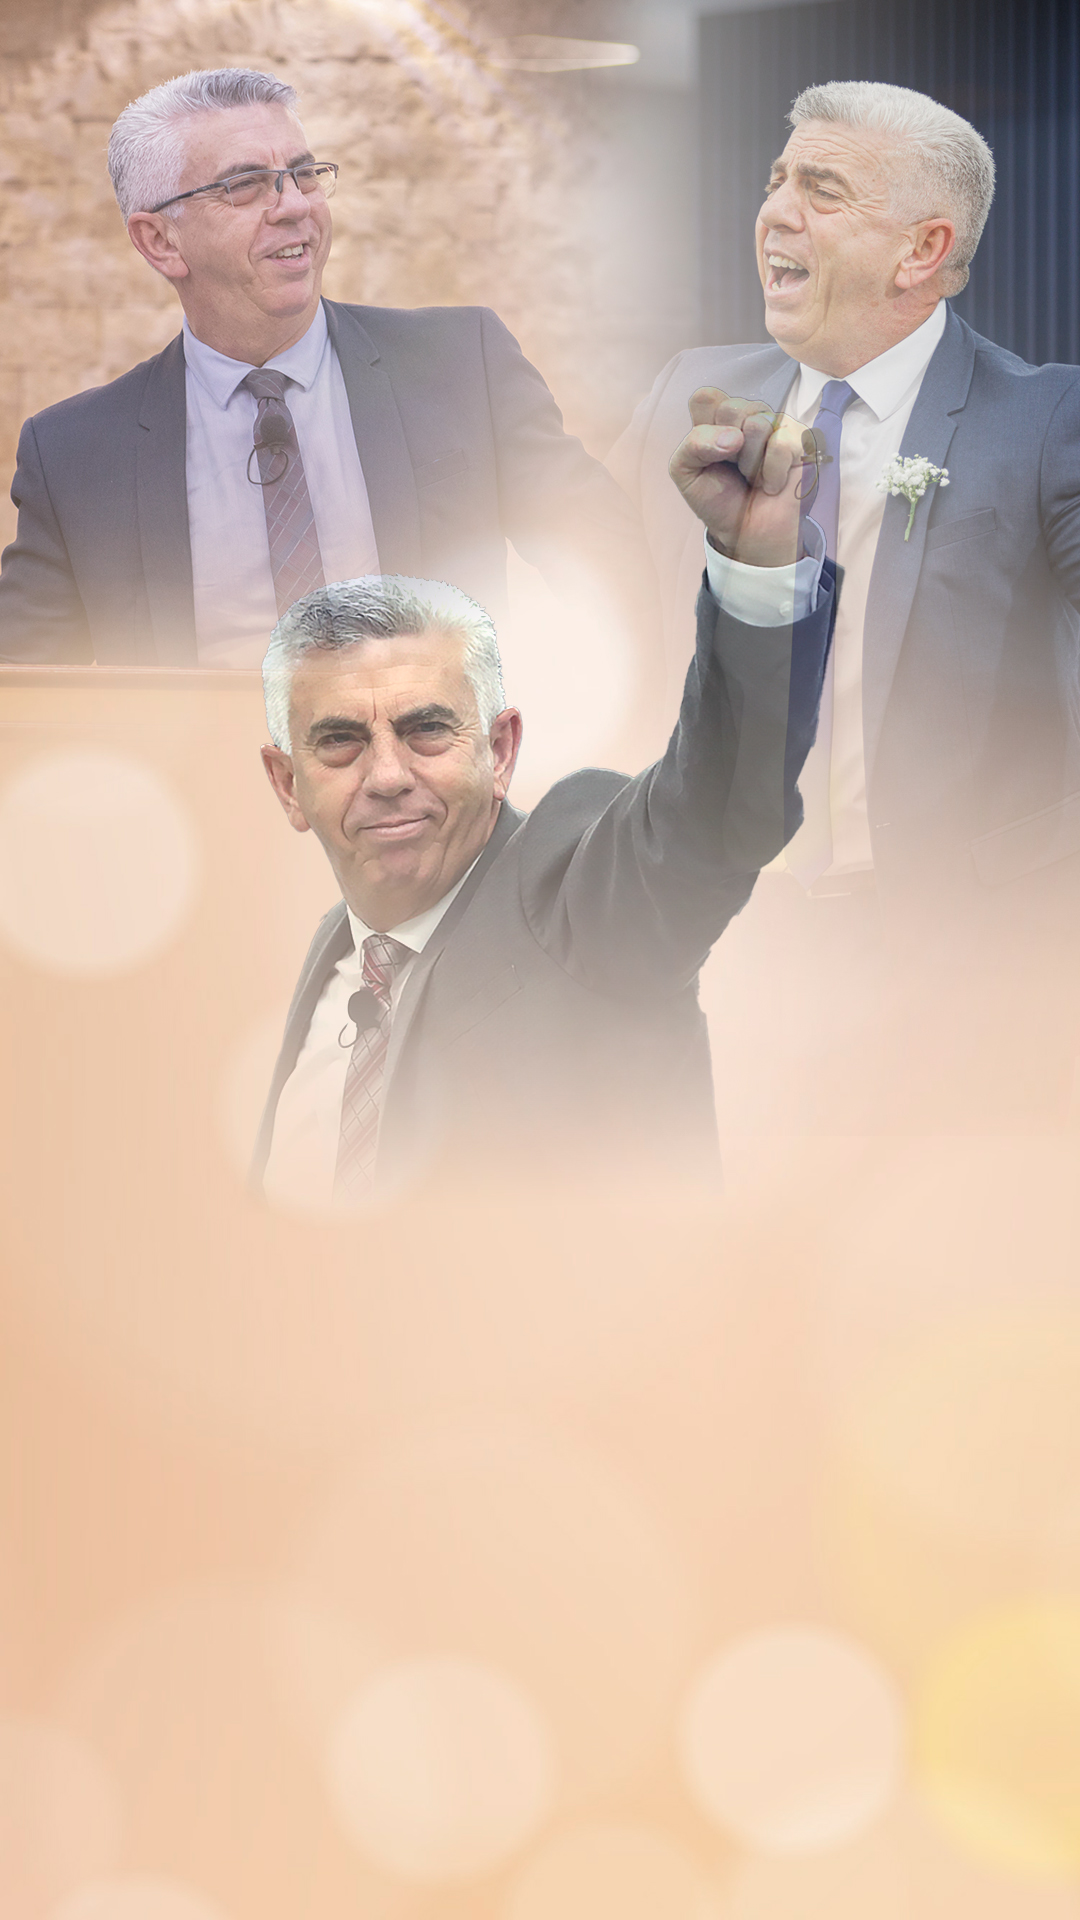
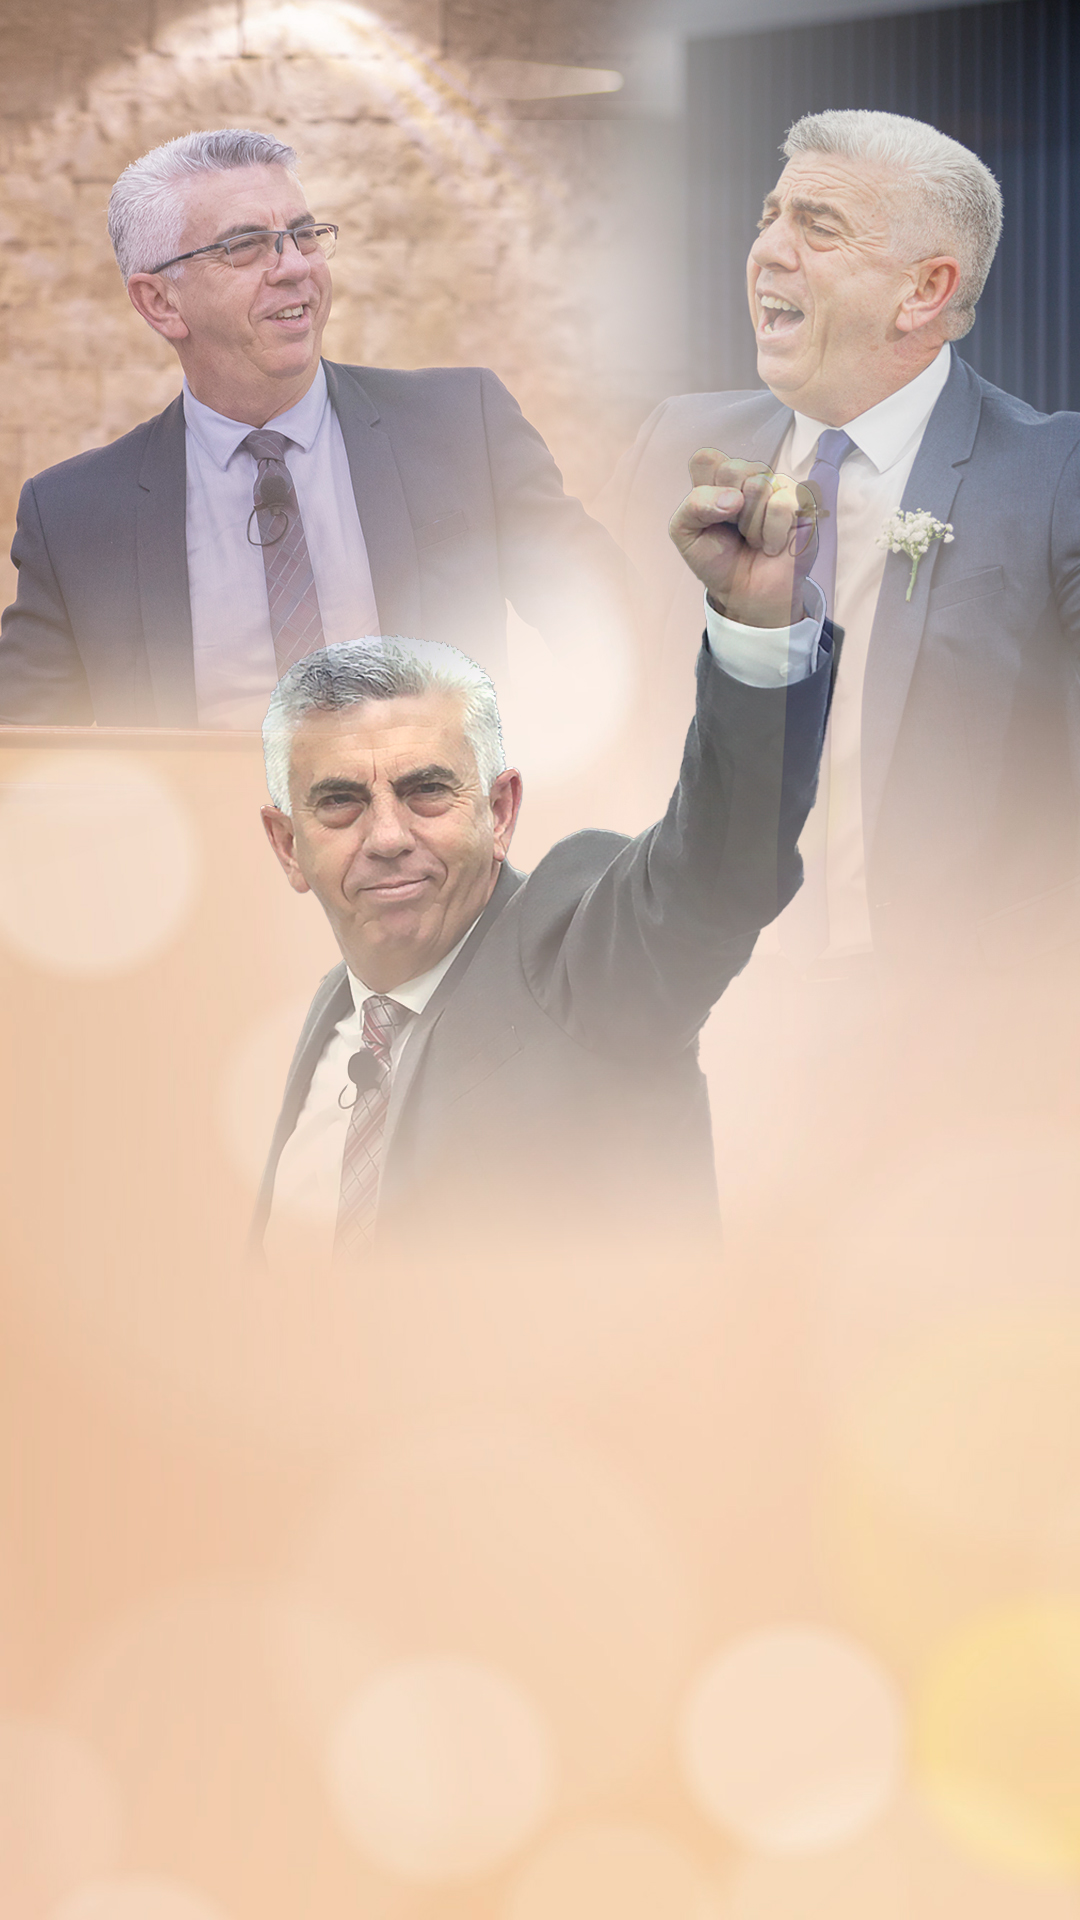
Changes

Changed region(s): [[0.0, 0.0, 1.0, 0.625], [0.0, 0.1562, 0.0306, 0.1875]]

diff --git a/src/pages/VinteAnos.tsx b/src/pages/VinteAnos.tsx
@@ -23,9 +23,9 @@ const VinteAnos = () => {
             src={isMobile ? pastorImgMobile : pastorImg}
             alt="Pr. Rafael Delmônego — 20 Anos de Ministério"
             onLoad={() => setImgLoaded(true)}
-            className={`absolute inset-0 w-full h-full object-cover object-top transition-opacity duration-700 ${
-              imgLoaded ? "opacity-100" : "opacity-0"
-            }`}
+            className={`absolute inset-0 w-full h-full object-cover transition-opacity duration-700 ${
+              isMobile ? "object-[center_15%]" : "object-top"
+            } ${imgLoaded ? "opacity-100" : "opacity-0"}`}
           />
 
           {/* Gradient overlays for text readability */}
